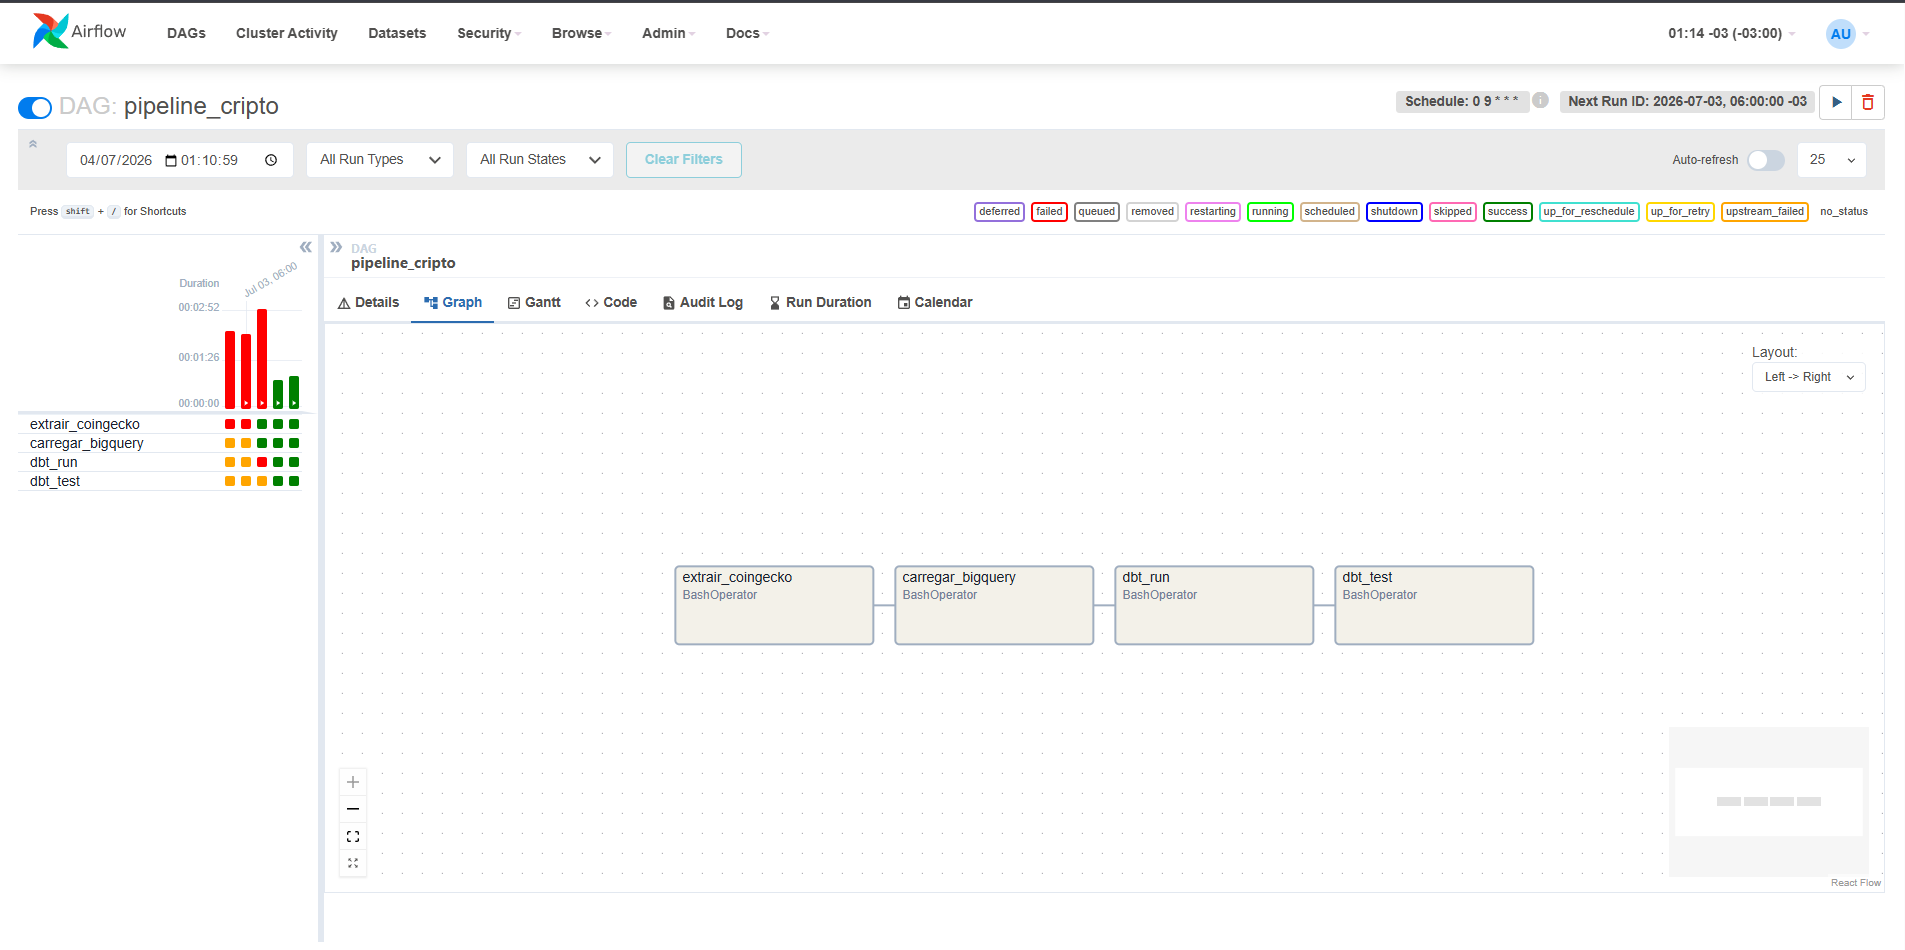
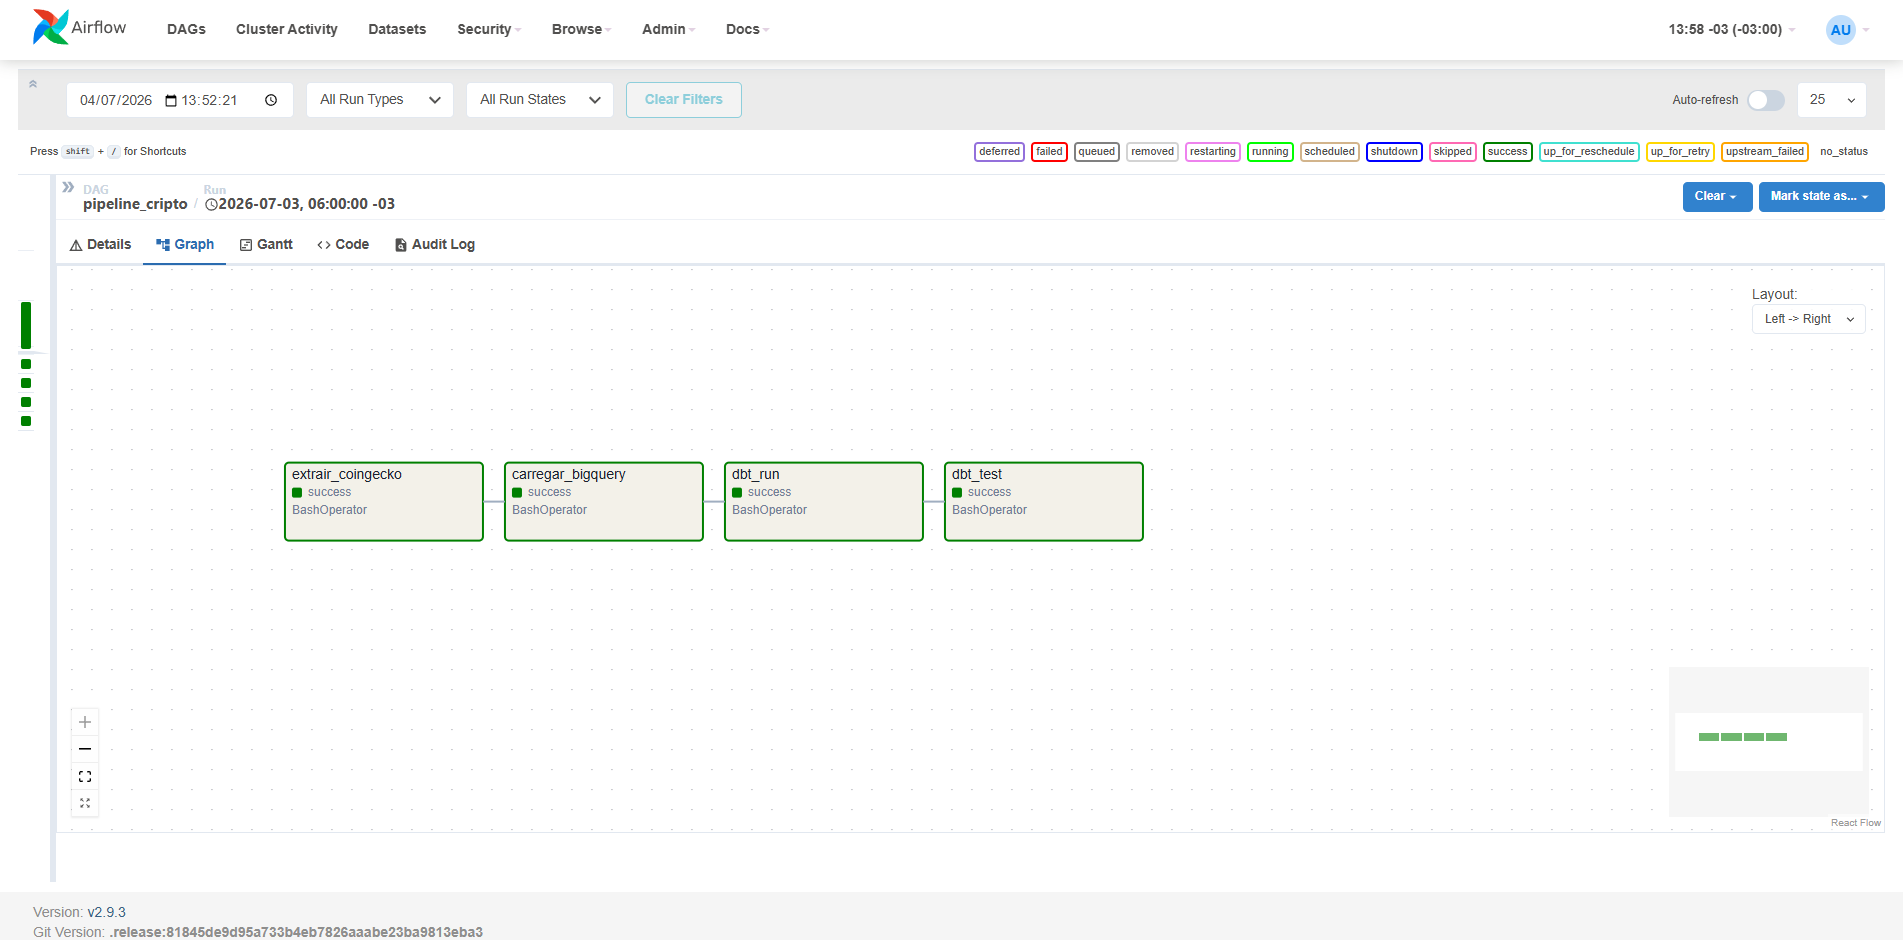
readme: estrutura detalhada e print da DAG

diff --git a/README.md b/README.md
@@ -19,8 +19,8 @@ entregar pronto pra análise, tudo automatizado e reproduzível.
 Usei criptomoedas porque é um assunto que curto e que gera dado de verdade: série
 temporal, preços que variam e métricas de negócio (retorno diário, volatilidade)
 que rendem transformação. Mas o ponto do projeto não é "saber cripto" nem "usar a
-ferramenta X" — é mostrar que eu entendo **por que** cada camada de um pipeline
-existe e **quando** cada tecnologia faz sentido.
+ferramenta X" é mostrar que eu entendo por que cada camada de um pipeline
+existe e quando cada tecnologia faz sentido.
 
 ## Arquitetura
 
@@ -93,17 +93,26 @@ existe um arquivo de segredo pra vazar.
 
 **Sem Terraform, de propósito.** Pra um projeto de escopo único, criar bucket e datasets
 pelo `gcloud`/`bq` (ver `infra/setup.sh`) resolve. Terraform brilha com múltiplos
-ambientes e gestão de estado — aqui seria complexidade sem retorno.
+ambientes e gestão de estado, aqui seria complexidade sem retorno.
 
 ## Estrutura
 
 ```
-ingestion/      extracao CoinGecko (main + backfill) e carga no BigQuery
-dbt/            modelos (staging -> intermediate -> marts) e testes
-orchestration/  dag do airflow
-infra/          setup do gcp (bucket + datasets)
-docs/           diagramas e prints
-.github/        ci (github actions)
+pipeline-cripto/
+├── ingestion/
+│   ├── main.py              # snapshot atual do CoinGecko -> GCS
+│   ├── backfill.py          # 1 ano de historico -> GCS
+│   ├── load_to_bq.py        # GCS -> BigQuery
+│   ├── sources/             # chamadas na API do CoinGecko
+│   └── utils/               # config e helpers do GCS
+├── dbt/models/
+│   ├── staging/             # limpeza e tipagem
+│   ├── intermediate/        # retorno diario (window function LAG)
+│   └── marts/               # precos diarios + volatilidade
+├── orchestration/dags/      # a DAG do Airflow
+├── infra/setup.sh           # cria bucket + datasets no GCP
+├── docs/                    # diagramas e prints
+└── docker-compose.yml
 ```
 
 ## Como rodar
@@ -139,9 +148,9 @@ docker compose up airflow --build   # http://localhost:8080, disparar a DAG
 O pipeline está completo e rodando de ponta a ponta. O que eu faria pra evoluir
 rumo a produção:
 
-- **Airflow num servidor / VPS** rodando 24/7, em vez de local — execução
+- **Airflow num servidor / VPS** rodando 24/7, em vez de local, execução
   independente da minha máquina.
 - **CI rodando `dbt test`** contra um dataset de teste a cada push (hoje o CI só
   faz o lint da ingestão).
 - **Alertas de falha** na DAG (e-mail/Slack) e testes de frescor do dado.
-- **Novas fontes e moedas** — o mesmo padrão de ingestão escala pra outras APIs.
+- **Novas fontes e moedas** o mesmo padrão de ingestão escala pra outras APIs.